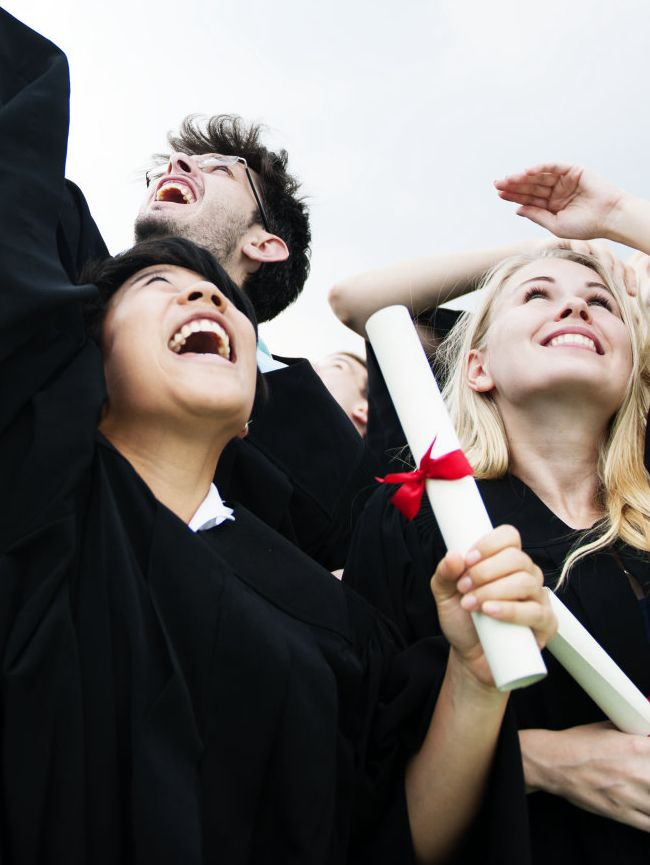
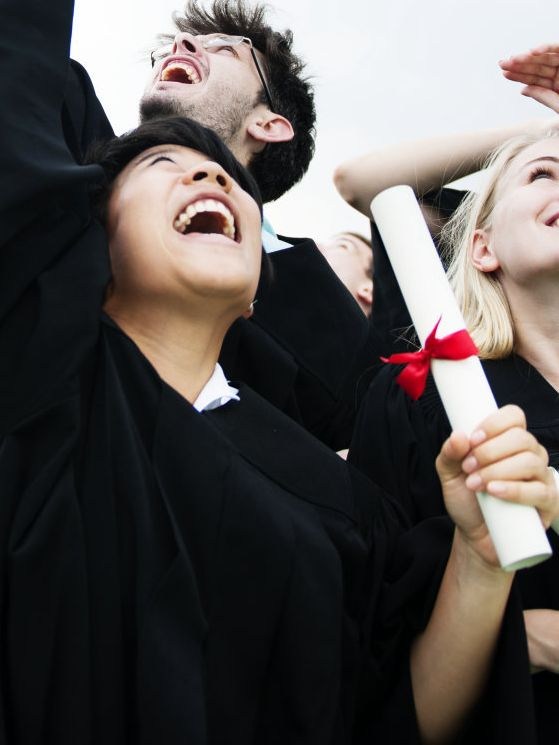
fix(badges+hero) — the capstone level badge is visible on every course, and the phone hero crop no longer opens on blank sky
The gradient that colours the capstone level badge was stored in MongoDB as a
Tailwind class ("from-indigo-500 to-blue-500"), and Tailwind only scans source
files — so that class was never compiled. The badge painted no background while
its label stayed white, which is why "ENTRY LEVEL" was invisible on the four
course pages using it. The palette is now safelisted, the badge and accent bar
carry a solid brand base so an unknown value can never hide the text again, and
the free-text gradient field (the way the un-emitted class got in) is a picker
of on-brand, safelisted options.

The phone hero band began its crop at a row of pure hazy sky, so the first ~30%
of it above the badge was blank: measured 77-92 px of blown-out pixels on every
phone width, now 6 px. The crop starts just above the crowns instead.

🤖 Generated with Codebuff

diff --git a/client/src/admin/CoursesCMS.jsx b/client/src/admin/CoursesCMS.jsx
@@ -22,24 +22,17 @@ import api from '../lib/api';
 import ListItemsEditor from './components/ListItemsEditor';
 import ImageUploadInput from './components/ImageUploadInput';
 import { getDetailedCourseData } from '../data/courseContentData';
+import { GRADIENT_CHOICES, DEFAULT_GRADIENT, gradientOptionsFor } from './components/gradientChoices';
 
 /**
- * Badge gradients offered for the "What Can You Become?" role pills.
- * These strings are Tailwind utility classes (not free text) so the stored value
- * can never render an unstyled badge — the same palette the coded lists use.
+ * Badge gradients offered for the "What Can You Become?" role pills and the
+ * capstone cards. Shared with SettingsCMS so both editors offer the same
+ * on-brand set — and, crucially, only classes that are safelisted in
+ * client/tailwind.config.js (a free-text gradient used to store a class that
+ * was never compiled into the CSS, which made the capstone level badges
+ * invisible on four course pages).
  */
-const CAREER_ROLE_COLORS = [
-  { label: 'Emerald', value: 'from-blue-500 to-blue-500' },
-  { label: 'Blue', value: 'from-blue-500 to-blue-500' },
-  { label: 'Violet', value: 'from-blue-500 to-blue-500' },
-  { label: 'Amber', value: 'from-red-500 to-yellow-500' },
-  { label: 'Rose', value: 'from-red-500 to-red-500' },
-  { label: 'Teal', value: 'from-blue-500 to-blue-500' },
-  { label: 'Indigo', value: 'from-blue-500 to-blue-500' },
-  { label: 'Orange', value: 'from-red-500 to-red-500' },
-  { label: 'Fuchsia', value: 'from-blue-500 to-blue-500' },
-  { label: 'Red', value: 'from-red-500 to-red-500' },
-];
+const CAREER_ROLE_COLORS = GRADIENT_CHOICES;
 
 /**
  * Split the composer's bulk "topics" text into lesson titles.
@@ -265,7 +258,7 @@ export default function CoursesCMS() {
     setCareerRoles(
       (Array.isArray(course.careerRoles) ? course.careerRoles : []).map((role, idx) => ({
         name: role?.name || '',
-        color: role?.color || 'from-blue-500 to-blue-500',
+        color: role?.color || DEFAULT_GRADIENT,
         order: Number(role?.order) || idx + 1,
         active: role?.active !== false,
       })),
@@ -397,7 +390,7 @@ export default function CoursesCMS() {
   const addCapstone = () => {
     setCapstoneProjects((prev) => [
       ...prev,
-      { tag: 'Machine Learning', title: 'New Capstone Project', desc: 'Describe what students will build.', stack: ['Python'], color: 'from-blue-500 to-blue-500' },
+      { tag: 'Machine Learning', title: 'New Capstone Project', desc: 'Describe what students will build.', stack: ['Python'], color: DEFAULT_GRADIENT },
     ]);
   };
 
@@ -1236,7 +1229,7 @@ export default function CoursesCMS() {
                             aria-label={`Career role ${idx + 1} badge colour`}
                             className="p-2 rounded-lg bg-slate-900 border border-white/10 text-white text-xs"
                           >
-                            {CAREER_ROLE_COLORS.map((color) => (
+                            {gradientOptionsFor(role.color).map((color) => (
                               <option key={color.value} value={color.value}>{color.label}</option>
                             ))}
                           </select>
@@ -1551,13 +1544,15 @@ export default function CoursesCMS() {
                           onChange={(e) => updateCapstone(idx, 'stack', e.target.value)}
                           className="w-full p-2 rounded-lg bg-slate-950 border border-white/10 text-slate-300 text-xs"
                         />
-                        <input
-                          type="text"
-                          placeholder="Gradient (e.g. from-blue-500 to-blue-500)"
-                          value={proj.color || ''}
+                        <select
+                          value={proj.color || DEFAULT_GRADIENT}
                           onChange={(e) => updateCapstone(idx, 'color', e.target.value)}
-                          className="w-full p-2 rounded-lg bg-slate-950 border border-white/10 text-white text-xs font-mono"
-                        />
+                          className="w-full p-2 rounded-lg bg-slate-950 border border-white/10 text-white text-xs"
+                        >
+                          {gradientOptionsFor(proj.color).map((c) => (
+                            <option key={c.value} value={c.value}>{c.label}</option>
+                          ))}
+                        </select>
                       </div>
                     </div>
                   ))}

diff --git a/client/src/pages/CourseDetailPage.jsx b/client/src/pages/CourseDetailPage.jsx
@@ -1100,11 +1100,15 @@ export default function CourseDetailPage() {
                 key={idx}
                 className="rounded-xl bg-white border border-slate-200/80 shadow-sm hover:shadow-md hover:-translate-y-0.5 transition-all duration-200 overflow-hidden flex flex-col group"
               >
-                {/* Colored Top Accent Banner */}
-                <div className={`h-0.5 w-full bg-gradient-to-r ${proj.color || 'from-blue-500 to-blue-500'}`} />
+                {/* Colored Top Accent Banner.
+                    `bg-brand-700` is the base coat: it paints when the gradient
+                    below it cannot (an unknown/typo'd class coming from the CMS
+                    produces background-image: none). Without it the badge was
+                    white text on a white card — the level label "disappeared". */}
+                <div className={`h-0.5 w-full bg-brand-700 bg-gradient-to-r ${proj.color || 'from-brand-600 to-ink-900'}`} />
 
                 <div className="p-3.5 flex-1">
-                  <span className={`inline-block px-2 py-0.5 rounded-full bg-gradient-to-r ${proj.color || 'from-blue-500 to-blue-500'} text-white text-[9px] font-bold uppercase tracking-wider mb-1.5 shadow-xs`}>
+                  <span className={`inline-block px-2 py-0.5 rounded-full bg-brand-700 bg-gradient-to-r ${proj.color || 'from-brand-600 to-ink-900'} text-white text-[9px] font-bold uppercase tracking-wider mb-1.5 shadow-xs`}>
                     {proj.tag}
                   </span>
 
@@ -1157,7 +1161,7 @@ export default function CourseDetailPage() {
                   key={idx}
                   className="rounded-2xl bg-white border border-slate-200/80 p-5 shadow-xs hover:shadow-md hover:border-[#002060]/40 transition-all flex items-center gap-3.5 group"
                 >
-                  <div className={`w-8 h-8 rounded-full bg-gradient-to-br ${role.color || 'from-blue-500 to-blue-500'} text-white flex items-center justify-center shrink-0 shadow-xs group-hover:scale-110 transition-transform`}>
+                  <div className={`w-8 h-8 rounded-full bg-brand-700 bg-gradient-to-br ${role.color || 'from-brand-600 to-ink-900'} text-white flex items-center justify-center shrink-0 shadow-xs group-hover:scale-110 transition-transform`}>
                     <Check className="w-4 h-4 stroke-[3]" />
                   </div>
                   <span className="text-sm font-bold text-slate-800 leading-tight group-hover:text-[#002060] transition-colors">

diff --git a/client/src/admin/AdminGuide.jsx b/client/src/admin/AdminGuide.jsx
@@ -27,7 +27,7 @@ const SECTIONS = [
     title: '3. Curriculum & Courses CMS',
     path: '/admin/courses',
     what: 'Saare career programs — title, price, duration, badge, curriculum modules, capstone projects.',
-    how: 'Edit (✏) button dabao → modal khulega. Yahan se title, tuition fee, discounted price, duration, highlights, aur curriculum modules edit karo. Save karte hi website par live update ho jata hai — module add/rename/delete karo, course page turant badal jata hai (lessons bhi wahin se bante hain). Badge dropdown se "Most Popular" etc. turant switch hota hai. Capstone projects bhi isi modal ke Capstone section se edit hote hain. Course list mein ab sahi module count dikhta hai. Isi modal me: Course Card Image (home page + /courses cards), Course Hero Image, Advantage Card Images (\"Why Get\" ke 6 cards ke artwork), aur Hero Credential Block (Microsoft logo / AI GRC certificate mark + certificate image) — sab URL ya upload se set hote hain. Isi modal ke "Certificates (3 per course)" section me 3 certificate cards ka artwork + title/issuer/code bharein — row 3 bharte hi course page par teesra certificate card live dikhne lagta hai.',
+    how: 'Edit (✏) button dabao → modal khulega. Yahan se title, tuition fee, discounted price, duration, highlights, aur curriculum modules edit karo. Save karte hi website par live update ho jata hai — module add/rename/delete karo, course page turant badal jata hai (lessons bhi wahin se bante hain). Badge dropdown se "Most Popular" etc. turant switch hota hai. Capstone projects bhi isi modal ke Capstone section se edit hote hain — har card ka "Gradient Color" ab dropdown se chunta hai (free text nahi), kyunki list se bahar ka colour likhne par card ke level badge ka background gayab ho jata tha. Course list mein ab sahi module count dikhta hai. Isi modal me: Course Card Image (home page + /courses cards), Course Hero Image, Advantage Card Images (\"Why Get\" ke 6 cards ke artwork), aur Hero Credential Block (Microsoft logo / AI GRC certificate mark + certificate image) — sab URL ya upload se set hote hain. Isi modal ke "Certificates (3 per course)" section me 3 certificate cards ka artwork + title/issuer/code bharein — row 3 bharte hi course page par teesra certificate card live dikhne lagta hai.',
   },
   {
     icon: Calendar,

diff --git a/client/src/admin/components/gradientChoices.js b/client/src/admin/components/gradientChoices.js
@@ -1,0 +1,40 @@
+/**
+ * Gradient classes the admin is allowed to store on CMS-driven badges
+ * (capstone cards, career-role pills).
+ *
+ * Why a fixed list instead of a free-text field: the value lives in MongoDB and
+ * only reaches Tailwind at RUNTIME — long after the CSS was compiled. A class
+ * that appears nowhere in the source is never emitted, so a white-text badge
+ * painted no background at all and "ENTRY LEVEL" vanished from four course
+ * pages. Every value below is safelisted in client/tailwind.config.js, so the
+ * picker can only produce colours that actually exist in the build.
+ *
+ * The first entry is the default new cards get.
+ */
+export const GRADIENT_CHOICES = [
+  { label: 'Brand Blue (default)', value: 'from-brand-600 to-ink-900' },
+  { label: 'Brand Blue → Sky', value: 'from-brand-600 to-brand-400' },
+  { label: 'Ink Navy', value: 'from-ink-900 to-ink-950' },
+  { label: 'Brand Red', value: 'from-gold-500 to-gold-600' },
+  { label: 'Amber → Red', value: 'from-amber-500 to-red-600' },
+  { label: 'Emerald → Teal', value: 'from-emerald-500 to-teal-500' },
+  { label: 'Violet → Indigo', value: 'from-violet-500 to-indigo-500' },
+  { label: 'Sky → Indigo', value: 'from-sky-500 to-indigo-600' },
+  { label: 'Blue (legacy)', value: 'from-blue-500 to-blue-500' },
+  { label: 'Red (legacy)', value: 'from-red-500 to-red-500' },
+  { label: 'Red → Yellow (legacy)', value: 'from-red-500 to-yellow-500' },
+];
+
+/** The gradient new cards are created with. */
+export const DEFAULT_GRADIENT = GRADIENT_CHOICES[0].value;
+
+/**
+ * Options for a <select>, keeping a value that is not in the list (older data,
+ * or one the client typed before this picker existed) selectable and visible
+ * instead of silently rewriting it.
+ */
+export const gradientOptionsFor = (current) => {
+  const value = String(current || '').trim();
+  if (!value || GRADIENT_CHOICES.some((c) => c.value === value)) return GRADIENT_CHOICES;
+  return [{ label: `Current (${value})`, value }, ...GRADIENT_CHOICES];
+};

diff --git a/client/src/admin/SettingsCMS.jsx b/client/src/admin/SettingsCMS.jsx
@@ -61,6 +61,7 @@ import {
 import RepeatableListInput from './components/RepeatableListInput';
 import ImageUploadInput from './components/ImageUploadInput';
 import PaymentGatewayPanel from './PaymentGatewayPanel';
+import { DEFAULT_GRADIENT, gradientOptionsFor } from './components/gradientChoices';
 
 /**
  * What this screen actually owns.
@@ -543,7 +544,7 @@ export default function SettingsCMS() {
       title: 'New Capstone Project',
       desc: 'Describe what students will build in this project.',
       stack: ['Python', 'TensorFlow'],
-      color: 'from-blue-500 to-blue-500'
+      color: DEFAULT_GRADIENT
     };
     setSettings(prev => ({
       ...prev,
@@ -2464,9 +2465,12 @@ export default function SettingsCMS() {
                         </div>
                         <div>
                           <label className="block text-slate-400 uppercase mb-1">Gradient Color</label>
-                          <input type="text" value={proj.color || ''} onChange={(e) => handleUpdateCapstoneProject(idx, 'color', e.target.value)}
-                            placeholder="from-blue-500 to-blue-500"
-                            className="w-full px-2.5 py-1.5 rounded-lg bg-slate-900 border border-slate-800 text-white font-mono text-xs focus:outline-none focus:border-blue-500" />
+                          <select value={proj.color || DEFAULT_GRADIENT} onChange={(e) => handleUpdateCapstoneProject(idx, 'color', e.target.value)}
+                            className="w-full px-2.5 py-1.5 rounded-lg bg-slate-900 border border-slate-800 text-white text-xs focus:outline-none focus:border-blue-500">
+                            {gradientOptionsFor(proj.color).map((c) => (
+                              <option key={c.value} value={c.value}>{c.label}</option>
+                            ))}
+                          </select>
                         </div>
                       </div>
                     </div>

diff --git a/client/tailwind.config.js b/client/tailwind.config.js
@@ -4,6 +4,29 @@ export default {
     "./index.html",
     "./src/**/*.{js,ts,jsx,tsx}",
   ],
+  /* ── Colours the CMS can set at runtime ─────────────────────────────
+     Capstone cards, career-role pills and every other list the client
+     recolours from the admin panel store a Tailwind gradient as a plain
+     string in MongoDB (default "from-brand-600 to-ink-900"). Tailwind scans
+     source files only, so a class that exists in the database but nowhere in
+     the code was never emitted — the badge then painted NO background while
+     its text stayed white, which made "ENTRY LEVEL" invisible on the four
+     course pages that used the old indigo default. Safelisting the gradient
+     stops keeps every colour the admin can pick in the build. Values that
+     still fall outside this list are covered by a solid brand-blue base on
+     the element itself (see the capstone card in CourseDetailPage).
+  ----------------------------------------------------------------*/
+  safelist: [
+    // The .jsx picker only offers 400/500/600 shades, so that is all the
+    // safelist needs to emit (~5 KB gzipped) — the darker/lighter shades the
+    // code itself uses are compiled from source as usual.
+    {
+      pattern: /^(from|via|to)-(slate|gray|zinc|neutral|stone|red|orange|amber|yellow|lime|green|emerald|teal|cyan|sky|blue|indigo|violet|purple|fuchsia|pink|rose)-(400|500|600)$/,
+    },
+    {
+      pattern: /^(from|via|to)-(brand|ink|gold|sand)-(100|200|300|400|500|600|700|800|900|950)$/,
+    },
+  ],
   darkMode: 'class',
   theme: {
     extend: {

diff --git a/server/models/Course.js b/server/models/Course.js
@@ -58,7 +58,10 @@ const CourseCapstoneSchema = new mongoose.Schema({
   title: { type: String, required: true },
   desc: { type: String, default: '' },
   stack: [{ type: String }],
-  color: { type: String, default: 'from-indigo-500 to-blue-500' },
+  // Brand blue → ink. This was 'from-indigo-500 to-blue-500', a class Tailwind
+  // never emitted because the value only ever lived in the database; the card
+  // badge then painted no background and the white level label was invisible.
+  color: { type: String, default: 'from-brand-600 to-ink-900' },
   order: { type: Number, default: 1 },
   active: { type: Boolean, default: true },
 }, { _id: false });
@@ -67,7 +70,7 @@ const CourseCapstoneSchema = new mongoose.Schema({
 // gradient of the badge, so the admin can recolour a role without a deploy.
 const CareerRoleSchema = new mongoose.Schema({
   name: { type: String, required: true },
-  color: { type: String, default: 'from-emerald-500 to-teal-500' },
+  color: { type: String, default: 'from-brand-600 to-ink-900' },
   order: { type: Number, default: 1 },
   active: { type: Boolean, default: true },
 }, { _id: true });

diff --git a/server/models/SiteSettings.js b/server/models/SiteSettings.js
@@ -31,7 +31,10 @@ const CapstoneProjectSchema = new mongoose.Schema({
   title: { type: String, required: true },
   desc: { type: String, default: '' },
   stack: [{ type: String }],
-  color: { type: String, default: 'from-indigo-500 to-blue-500' },
+  // Brand blue → ink, kept in the Tailwind safelist (see client/tailwind.config.js).
+  // The old indigo default was never emitted into the CSS, so those badges
+  // rendered as white text on a white card.
+  color: { type: String, default: 'from-brand-600 to-ink-900' },
   order: { type: Number, default: 1 },
   active: { type: Boolean, default: true },
 }, { _id: true });
